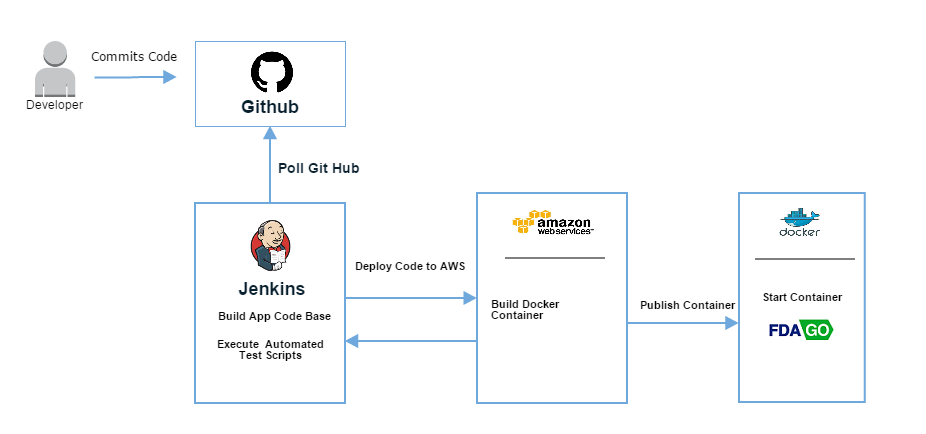
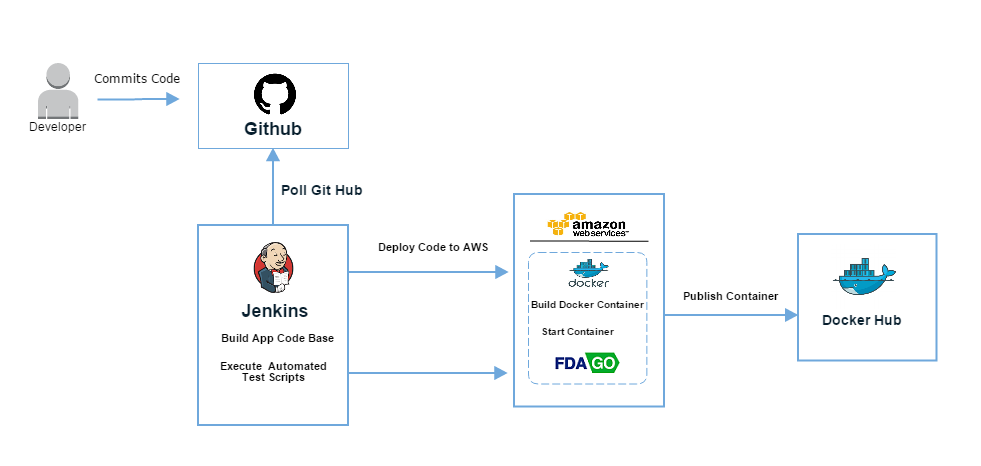
Added another image to the readme and uploaded new version of CI Diagram

Changed region(s): [[0.0302, 0.0899, 0.6955, 0.9286], [0.6652, 0.4194, 0.9676, 0.9286]]

diff --git a/README.md b/README.md
@@ -34,19 +34,27 @@ Project Links  | URLs
 
 # Installation
 
+**Locally**
+
 _See the [FDA-GO Local Deployment Guide](https://github.com/concept-plus/fda-go/blob/BPA-57-1.0-open/LOCAL_DEPLOYMENT.md)_
+
+**Docker**
+The Docker container listens on port locally. To access the container, run the following command substituting an open port on your machine.
+
+docker run -p <localport>:80 -n fdago conceptplus/fdago
 
 # Team
 
 Upon receipt of the RFQ, Yazan Ramahi was appointed and authorized to put a multidisciplinary team together to collaboratively design, develop, and deploy a working protoype.
 
 Team members consisted of:
-* **Product Owner:** Yazan Ramahi (yramahi@conceptplusllc.com)
+* **Product Manager:** Yazan Ramahi (yramahi@conceptplusllc.com)
 * **Technical Architect:** Rory McLean (rmclean@conceptplusllc.com)
-* **Program Manager / Scrum Master:** Hector Villagomez (hvillagomez@conceptplusllc.com)
 * **Frontend Web Developer:** Ponnamy Kiep (pkiep@conceptplusllc.com)
+* **Frontend Web Developer:** Dana Ramahi (dramahi@conceptplusllc.com)
 * **Backend Web Developer:** Mike Mathis (mmathis@conceptplusllc.com)
 * **DevOps Engineer:** Alex Rangeo (arangeo@conceptplusllc.com)
+* **DevOps Engineer:** Hector Villagomez (hvillagomez@conceptplusllc.com)
 
 # Agile Approach
 
@@ -56,10 +64,10 @@ With a team in place, a project kickoff meeting was executed and ideas were pres
 The team executed a scrum approach for all development activities. Working with the product owner, a product backlog was created identifying various user and technical stories.  Stories were captured in [JIRA](https://www.atlassian.com/software/jira) and then groomed and refined allowing development to begin.
 
 Development was completed in 4 sprints. Each sprint consisted of: 
-**1.** Planning session – development team decomposed and estimated the user and technical stories. 
-**2.** Daily stand ups – decomposed tasks and activities are tracked and impediments are identified.
-**3.** Sprint demo – all completed user and technical stories were presented to stakeholders for acceptance. 
-**4.** Sprint retrospective – lessons learned were captured and documented by the entire team.
+1. Planning session – development team decomposed and estimated the user and technical stories. 
+2. Daily stand ups – decomposed tasks and activities are tracked and impediments are identified.
+3. Sprint demo – all completed user and technical stories were presented to stakeholders for acceptance. 
+4. Sprint retrospective – lessons learned were captured and documented by the entire team.
 
 Sprint tasks were tracked and managed using JIRA. A [virtual agile board](https://github.com/concept-plus/fda-go/blob/BPA-57-1.0-open/evidence/Sprint_Docs/Sprint%202/Sprint_2_WIP_1.png) allowed the team to work remotely. All artifacts associated to each sprint, along with a schedule, [can be found here.](https://github.com/concept-plus/fda-go/blob/BPA-57-1.0-open/evidence/Sprint_Docs)
 Simultaneously, the DevOps engineer and Technical Architect identified tasks that needed to be completed from an infrastructure perspective. All items were captured in JIRA and tracked through a Kanban board. [Click here to see artifacts](https://github.com/concept-plus/fda-go/blob/BPA-57-1.0-open/evidence/Sprint_Docs)
@@ -102,11 +110,11 @@ Our Continuous Integration implementation invloves the following steps:
 * Jenkins polls GitHub for any check-ins
 * Jenkins executes job to build code base and deploys to AWS server
 * AWS builds Docker container based on script ran in Jenkins
+* AWS starts container
 * Container is published to Docker Hub
-* Docker starts the container
 * Upon successful build of container Jenkins executes job to run automated container
 * Test results produce HTML reports
-
+![CI](./evidence/Continuous Integration/CI_Diagram.png)
 # Testing
 
 ## Unit Testing
